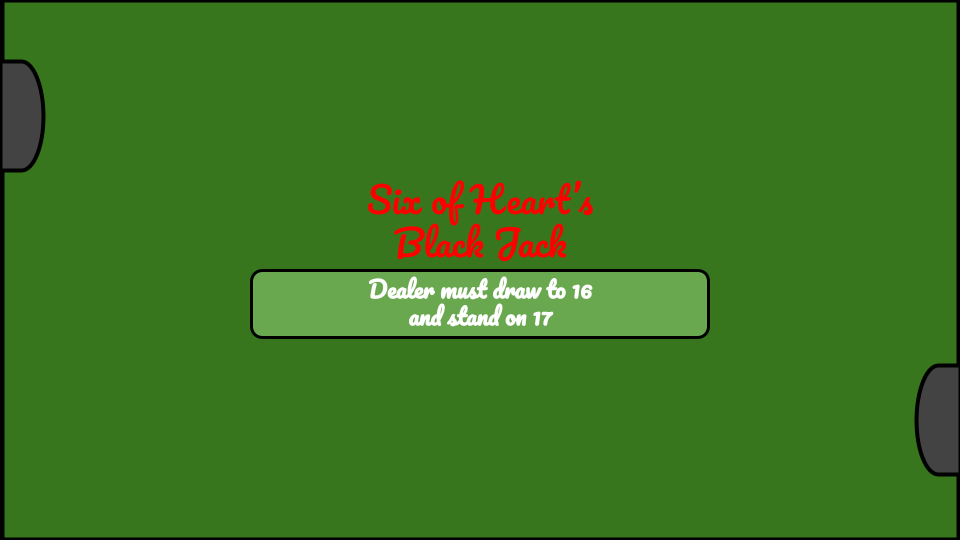
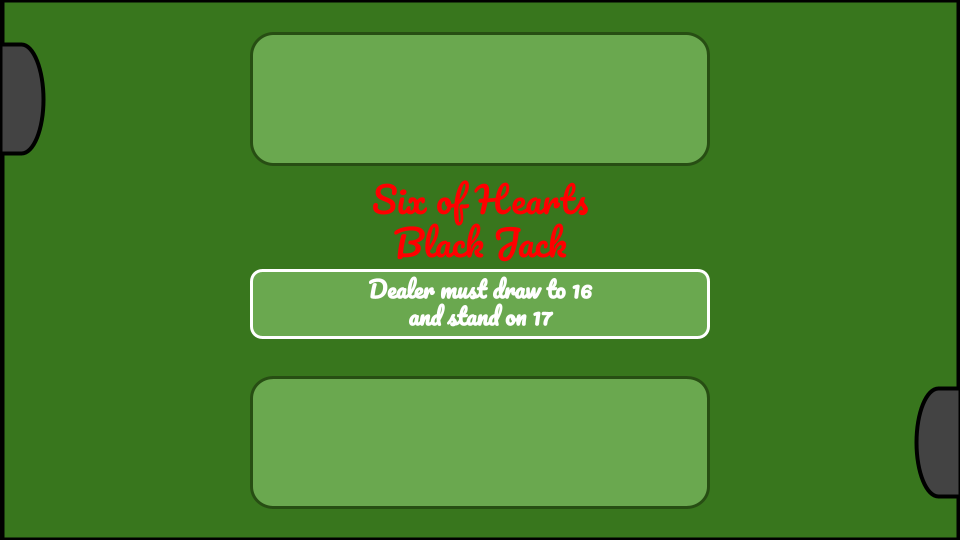
Major work done on physics for both the dealer and player cards and background

diff --git a/SceneWidget.cpp b/SceneWidget.cpp
@@ -1,51 +1,150 @@
 #include "SceneWidget.h"
-#include <QPainter>
-#include <QDebug>
 
-SceneWidget::SceneWidget(QWidget *parent) : QWidget(parent),
+/**
+ * Author(s):     Team Six of Hearts:
+ *                Ryan Nguyen (Taizuki), John Nguyen (johnguyn),
+ *           	  Christian Hartman (Is-This-One-Avaiable), Caleb Funk (Funkyc02),
+ *                Landon West (landonwest815), and Pablo Arancibia-Bazan (Pablo23117)
+ * Course:        CS 3505, University of Utah, School of Computing
+ * Assignment:    A9 - Educational App
+ * File Contents:
+ * Utilizes Box2D in order to create a world populated with bodies that are cards
+ * which all come together to create and display a game of blackjack.
+ */
+
+SceneWidget::SceneWidget(QWidget *parent)
+    : QWidget(parent),
     world(b2Vec2(0.0f, 10.0f)),
-    timer(this),
-    image(":/cards/2C.png")
-{
-    backgroundImage.load(":/cards/table.png");
+    timer(this) {
 
-    b2BodyDef groundBodyDef;
-    groundBodyDef.position.Set(0.0f, 20.0f);
-    b2Body* groundBody = world.CreateBody(&groundBodyDef);
-    b2PolygonShape groundBox;
-    groundBox.SetAsBox(50.0f, 10.0f);
-    groundBody->CreateFixture(&groundBox, 0.0f);
+    backgroundImage.load(":/cards/table.png"); // Sets image of a blackjack table
+
+    // Defines the low ground body and its various settings
+    b2BodyDef lowGroundDef;
+    lowGroundDef.position.Set(0.0f, 30.0f); // Y-coordinate for the low ground
+    b2Body* lowGround = world.CreateBody(&lowGroundDef);
+    b2PolygonShape lowGroundShape;
+    lowGroundShape.SetAsBox(50.0f, 1.0f); // Low ground box size
+    lowGround->CreateFixture(&lowGroundShape, 0.0f);
+
+    // Defines the high ground body and its various settings
+    b2BodyDef highGroundDef;
+    highGroundDef.position.Set(0.0f, 10.0f); // Y-coordinate for the high ground
+    b2Body* highGround = world.CreateBody(&highGroundDef);
+    b2PolygonShape highGroundShape;
+    highGroundShape.SetAsBox(50.0f, 1.0f); // High ground box size
+    highGround->CreateFixture(&highGroundShape, 0.0f);
+
+    // Assists in updating the world based on a timer
+    connect(&timer, &QTimer::timeout, this, &SceneWidget::updateWorld);
+    timer.start(10);
+}
+
+void SceneWidget::addDealerCard(const QString& imagePath) {
+    // Creates body of dealer card and adds to the associated vector
+    b2Body* dealerBody = nullptr;
+    dealerBody = createCardBody(0.0f, 10.0f); // Initial position of dealer body
+    dealerBodies.push_back(dealerBody);
+
+    // Creates image of dealer card and adds to the associated vector
+    QImage dealerImage(imagePath);
+    dealerImage = dealerImage.scaled(95, 95, Qt::KeepAspectRatio);
+    dealerImages.push_back(dealerImage);
+}
+
+void SceneWidget::addPlayerCard(const QString& imagePath) {
+    // Creates body of player card and adds to the associated vector
+    b2Body* playerBody = nullptr;
+    playerBody = createCardBody(5.0f, 10.0f); // Initial position of player body
+    playerBodies.push_back(playerBody);
+
+    // Creates image of player card and adds to the associated vector
+    QImage playerImage(imagePath);
+    playerImage = playerImage.scaled(95, 95, Qt::KeepAspectRatio);
+    playerImages.push_back(playerImage);
+}
+
+b2Body* SceneWidget::createCardBody(float x, float y) {
+    // Defines the properties of the Box2D card body
     b2BodyDef bodyDef;
     bodyDef.type = b2_dynamicBody;
-    bodyDef.position.Set(0.0f, 4.0f);
-    body = world.CreateBody(&bodyDef);
+    bodyDef.position.Set(x, y);
+
+    b2Body* body = world.CreateBody(&bodyDef); // Create body in the world
+
+    // Defines the shape of the dynamic box
     b2PolygonShape dynamicBox;
     dynamicBox.SetAsBox(1.0f, 1.0f);
+
+    // Define the properties of the Box2D fixture
     b2FixtureDef fixtureDef;
     fixtureDef.shape = &dynamicBox;
     fixtureDef.density = 1.0f;
     fixtureDef.friction = 0.3f;
-    fixtureDef.restitution = 0.9;
+    fixtureDef.restitution = 0.0f;
+    fixtureDef.filter.groupIndex = -1;
     body->CreateFixture(&fixtureDef);
-    connect(&timer, &QTimer::timeout, this, &SceneWidget::updateWorld);
-    timer.start(10);
+
+    return body;
 }
 
 void SceneWidget::paintEvent(QPaintEvent *) {
     QPainter painter(this);
 
+    // Sets the background image size and draws the image
     backgroundImage = backgroundImage.scaled(800, 800, Qt::KeepAspectRatio);
     painter.drawImage(0, 0, backgroundImage);
 
-    b2Vec2 position = body->GetPosition();
-    float angle = body->GetAngle();
-    image = image.scaled(95, 95, Qt::KeepAspectRatio);
-    painter.drawImage((int)(position.x), (int)(position.y), image);
+    // Draws the card bodies of the dealer
+    for (int i = 0; i < dealerBodies.size(); ++i) {
+        b2Vec2 position = dealerBodies[i]->GetPosition();
+        // Sets the position where each dealer card body added will fall
+        painter.drawImage((position.x * 70 - (i * 40)), (position.y) * 4.5, dealerImages[i]);
+    }
+
+    // Draws the card bodies of the player
+    for (int i = 0; i < playerBodies.size(); ++i) {
+        b2Vec2 position = playerBodies[i]->GetPosition();
+        // Sets the position where each player card body added will fall and will change is split is true
+        painter.drawImage((position.x * 100 + (i * 40) + 230), (position.y * 40.5), playerImages[i]);
+    }
+
     painter.end();
 }
 
 void SceneWidget::updateWorld() {
-    world.Step(1.0/60.0, 6, 2);
+    // Updates all the card bodies of the dealer
+    for (int i = 0; i < dealerBodies.size(); ++i) {
+        dealerBodies[i]->SetLinearVelocity(b2Vec2(6.0f, 0.0f)); // Velocity direction right
+        if (dealerBodies[i]->GetPosition().x * 50 >= 360) {
+            dealerBodies[i]->SetLinearVelocity(b2Vec2_zero);
+        }
+    }
+
+    // Updates all the card bodies of the player
+    for (int i = 0; i < playerBodies.size(); ++i) {
+        playerBodies[i]->SetLinearVelocity(b2Vec2(-6.0f, 0.0f)); // Velocity direction left
+        if (playerBodies[i]->GetPosition().x * 50 <= 0) {
+            playerBodies[i]->SetLinearVelocity(b2Vec2_zero);
+        }
+    }
+
+    world.Step(1.0 / 60.0, 6, 2);
     update();
 }
 
+void SceneWidget::clearAllCards() {
+    // Removes all dealer bodies from the world
+    for (b2Body* dealerBody : dealerBodies) {
+        world.DestroyBody(dealerBody);
+    }
+    // Removes all player bodies from the world
+    for (b2Body* playerBody : playerBodies) {
+        world.DestroyBody(playerBody);
+    }
+    // Clears out all associated dealer and player vectors
+    dealerBodies.clear();
+    playerBodies.clear();
+    dealerImages.clear();
+    playerImages.clear();
+}

diff --git a/SceneWidget.h b/SceneWidget.h
@@ -1,31 +1,81 @@
+/**
+ * Author(s):     Team Six of Hearts:
+ *                Ryan Nguyen (Taizuki), John Nguyen (johnguyn),
+ *           	  Christian Hartman (Is-This-One-Avaiable), Caleb Funk (Funkyc02),
+ *                Landon West (landonwest815), and Pablo Arancibia-Bazan (Pablo23117)
+ * Course:        CS 3505, University of Utah, School of Computing
+ * Assignment:    A9 - Educational App
+ * File Contents:
+ * This project helps to demonstrate some C++ conventions in regards
+ * to the topic of a SceneWidget class which has been split into a header
+ * file. It assists in declarations of the SceneWidget object, functions, etc.
+ */
+
 #ifndef SCENEWIDGET_H
 #define SCENEWIDGET_H
 
-#include <QWidget>
 #include <Box2D/Box2D.h>
+#include <QWidget>
 #include <QTimer>
+#include <QPainter>
 
-class SceneWidget : public QWidget
-{
+/**
+ * @brief The SceneWidget class handles Box2D functionality and assists in
+ * displaying the blackjack table and the physics of adding and removing cards.
+ */
+class SceneWidget : public QWidget {
     Q_OBJECT
-
 public:
+    /// @brief Constructor for the SceneWidget class.
+    /// @param parent The parent QWidget.
     explicit SceneWidget(QWidget *parent = nullptr);
-    void paintEvent(QPaintEvent *);
-
-signals:
-
-public slots:
-    void updateWorld();
 
 private:
+    /// @brief Defines a Box2D world.
     b2World world;
-    b2Body* body;
-    QTimer timer;
-    QImage image;
 
+    /// @brief Handles periodically updating the world.
+    QTimer timer;
+
+    /// @brief Stores blackground image of a blackjack table.
     QImage backgroundImage;
+
+    /// @brief Stores all dealer bodies that are created.
+    QVector<b2Body*> dealerBodies;
+
+    /// @brief Stores all player bodies that are created.
+    QVector<b2Body*> playerBodies;
+
+    /// @brief Stores all dealer images that are added.
+    QVector<QImage> dealerImages;
+
+    /// @brief Stores all player images that are added.
+    QVector<QImage> playerImages;
+
+    /// @brief Helper function to create a card body
+    /// @param x coordinate for card body location
+    /// @param y coordinate for card body location
+    b2Body* createCardBody(float x, float y);
+
+protected:
+    /// @brief Overrides the paintEvent function to customize the rendering.
+    void paintEvent(QPaintEvent *) override;
+
+public slots:
+    /// @brief Draws a new dealer card with given image.
+    /// @param imagePath String path of image for dealer card to display.
+    void addDealerCard(const QString& imagePath);
+
+    /// @brief Draws a new player card with given image.
+    /// @param imagePath String path of image for player card to display.
+    void addPlayerCard(const QString& imagePath);
+
+    /// @brief Clears all the player and dealer cards.
+    void clearAllCards();
+
+private slots:
+    /// @brief Utilized with a timer to update the world and card physics.
+    void updateWorld();
 };
 
 #endif // SCENEWIDGET_H
-

diff --git a/mainwindow.cpp b/mainwindow.cpp
@@ -7,6 +7,12 @@ MainWindow::MainWindow(QWidget *parent)
 {
     ui->setupUi(this);
     ui->widget->show();
+
+
+
+    connect(ui->addDealerButton, &QPushButton::clicked, this, &MainWindow::addDealer);
+    connect(ui->addPlayerButton, &QPushButton::clicked, this, &MainWindow::addPlayer);
+    connect(ui->clearAllButton, &QPushButton::clicked, this, &MainWindow::clearAll);
 }
 
 MainWindow::~MainWindow()
@@ -16,3 +22,10 @@ MainWindow::~MainWindow()
 
 }
 
+// Just example code for how you would call to add a card or clear them from the Box2D scene
+void MainWindow::addDealer()
+{ ui->widget->addDealerCard(":/cards/10H.png"); }
+void MainWindow::addPlayer()
+{ ui->widget->addPlayerCard(":/cards/10C.png"); }
+void MainWindow::clearAll()
+{ ui->widget->clearAllCards(); }

diff --git a/mainwindow.h b/mainwindow.h
@@ -17,5 +17,16 @@ public:
 
 private:
     Ui::MainWindow *ui;
+
+
+    // Probably will remove, serves as demo functions
+    void addDealer();
+    void addPlayer();
+    void clearAll();
+
+
+
+
+
 };
 #endif // MAINWINDOW_H
